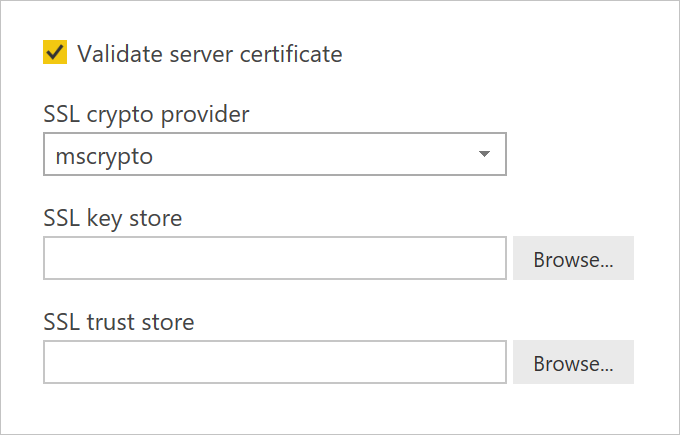
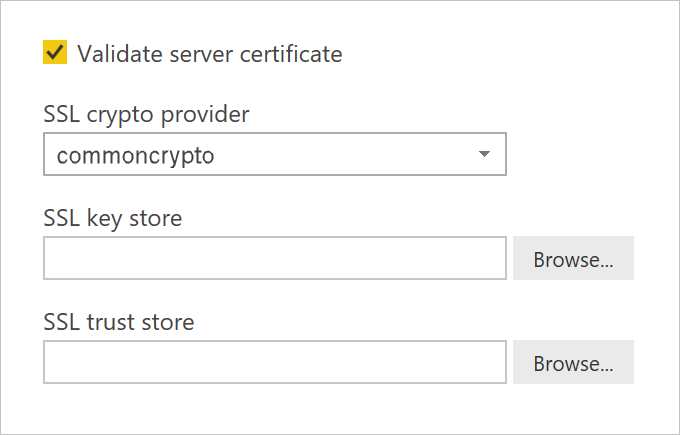
Updated to include on commonCryptoLib

Changed region(s): [[0.0618, 0.3287, 0.3088, 0.3885]]

diff --git a/powerquery-docs/Connectors/sap-hana/sap-hana-encryption.md b/powerquery-docs/Connectors/sap-hana/sap-hana-encryption.md
@@ -14,18 +14,21 @@ LocalizationGroup: Connect to data
 
 # Enable encryption for SAP HANA
 
-We recommend that you encrypt connections to an SAP HANA server from Power Query Desktop and Power Query Online. You can enable HANA encryption using both OpenSSL and SAP's proprietary CommonCryptoLib (formerly known as sapcrypto) library. SAP recommends using CommonCryptoLib, but basic encryption features are available using either library.
+We recommend that you encrypt connections to an SAP HANA server from Power Query Desktop and Power Query Online. You can enable HANA encryption using SAP's proprietary CommonCryptoLib (formerly known as sapcrypto) library. SAP recommends using CommonCryptoLib.
 
-This article provides an overview of enabling encryption using OpenSSL, and references some specific areas of the SAP documentation. We update content and links periodically, but for comprehensive instructions and support, always refer to the official SAP documentation. If you want to set up encryption using CommonCryptoLib instead of OpenSSL, see [How to Configure TLS/SSL in SAP HANA 2.0](https://blogs.sap.com/2018/11/13/how-to-configure-tlsssl-in-sap-hana-2.0/) For steps on how to migrate from OpenSSL to CommonCryptoLib, see [SAP Note 2093286](https://launchpad.support.sap.com/#/notes/2093286) (s-user required).
+>[!Note]
+>SAP no longer supports the OpenSSL, and as a result, Microsoft also has discontinued its support. Use CommonCryptoLib instead.
+
+This article provides an overview of enabling encryption using CommonCryptoLib and references some specific areas of the SAP documentation. We update content and links periodically, but for comprehensive instructions and support, always refer to the official SAP documentation. You should set up encryption using CommonCryptoLib instead of OpenSSL; for steps to do so, go to [How to Configure TLS/SSL in SAP HANA 2.0](https://blogs.sap.com/2018/11/13/how-to-configure-tlsssl-in-sap-hana-2.0/). For steps on how to migrate from OpenSSL to CommonCryptoLib, see [SAP Note 2093286](https://launchpad.support.sap.com/#/notes/2093286) (s-user required).
 
 > [!NOTE]
-> The setup steps for encryption detailed in this article overlap with the setup and configuration steps for SAML SSO. Whether you choose OpenSSL or CommonCryptoLib as your HANA server's encryption provider, make sure that your choice is consistent across SAML and encryption configurations.
+> The setup steps for encryption detailed in this article overlap with the setup and configuration steps for SAML SSO. Use CommonCryptoLib as your HANA server's encryption provider, and make sure that your choice of CommonCryptoLib is consistent across SAML and encryption configurations.
 
-There are four phases to enabling encryption for SAP HANA using OpenSSL. We cover these phases next. For more information, see [Securing the Communication between SAP HANA Studio and SAP HANA Server through SSL](https://blogs.sap.com/2015/09/28/securing-the-communication-between-sap-hana-studio-and-sap-hana-server-through-ssl/).
+There are four phases to enabling encryption for SAP HANA. We cover these phases next. For more information, go to [Securing the Communication between SAP HANA Studio and SAP HANA Server through SSL](https://blogs.sap.com/2015/09/28/securing-the-communication-between-sap-hana-studio-and-sap-hana-server-through-ssl/).
 
-## Use OpenSSL
+## Use CommonCryptoLib
 
-Ensure your HANA server is configured to use OpenSSL as its cryptographic provider. Replace the missing path information below with the server ID (sid) of your HANA server.
+Ensure your HANA server is configured to use CommonCryptoLib as its cryptographic provider. Replace the missing path information below with the server ID (sid) of your HANA server.
 
 ![OpenSSL cryptographic provider.](ssl-crypto-provider.png)
 
@@ -81,15 +84,12 @@ Get the certificate signed by a certificate authority (CA) that is trusted by th
 
     ![Trusted Root Certification Authorities folder.](trusted-root-certification.png)
 
-    You must first convert trust.pem into a .crt file before you can import the certificate into the Trusted Root Certification Authorities folder, for example by executing the following OpenSSL command:
-
-    ```
-    openssl x509 -outform der -in your-cert.pem -out your-cert.crt
-    ```
-    
-    For information about using OpenSSL for the conversion, see the [OpenSSL documentation](https://www.openssl.org/docs/man1.0.2/man3/x509.html).
+    You must first convert trust.pem into a .crt file before you can import the certificate into the Trusted Root Certification Authorities folder.
 
 ## Test the connection
+
+>[!Note]
+> Before using the procedures in this section, you must be signed in to Power BI using your admin account credentials.
 
 Before you can validate a server certificate in the Power BI service online, you must have a data source already set up for the [on-premises data gateway](/data-integration/gateway/). If you don't already have a data source set up to test the connection, you'll have to create one. To set up the data source on the gateway:
 
